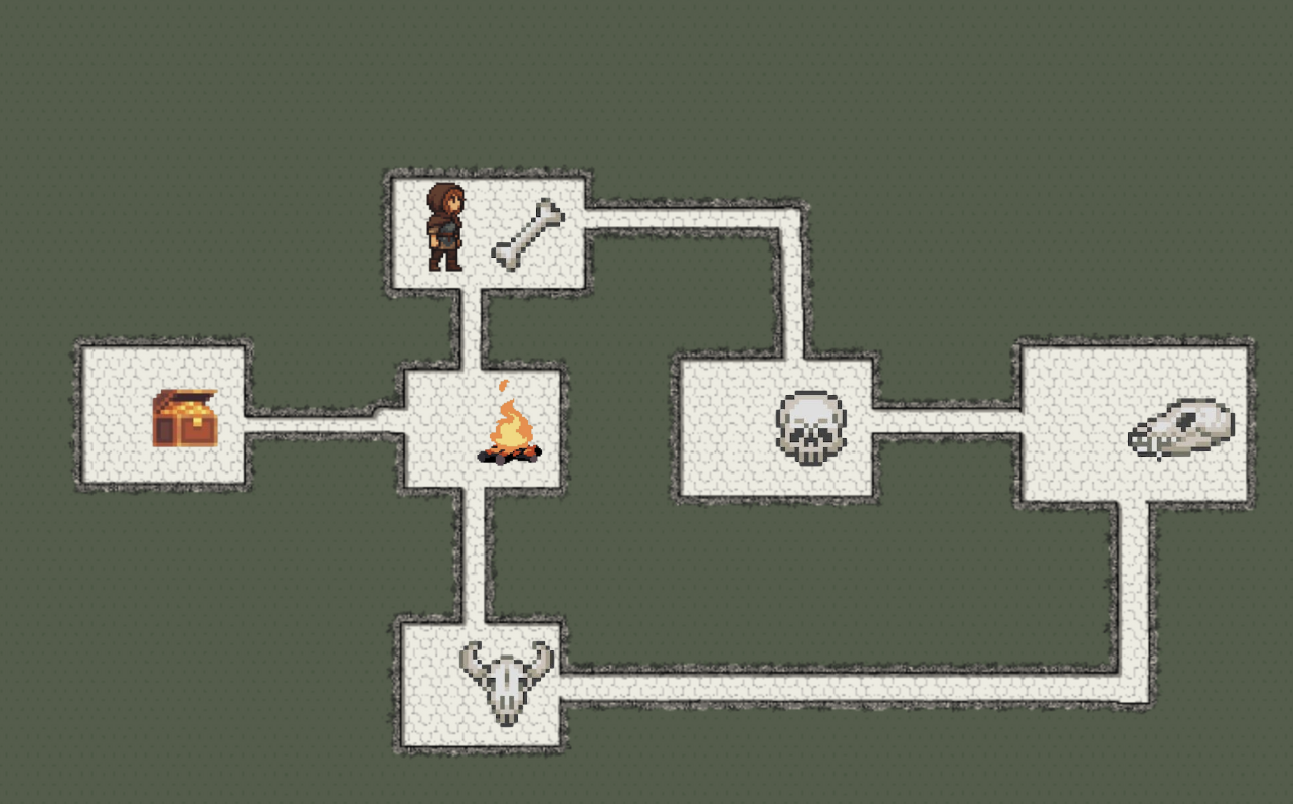
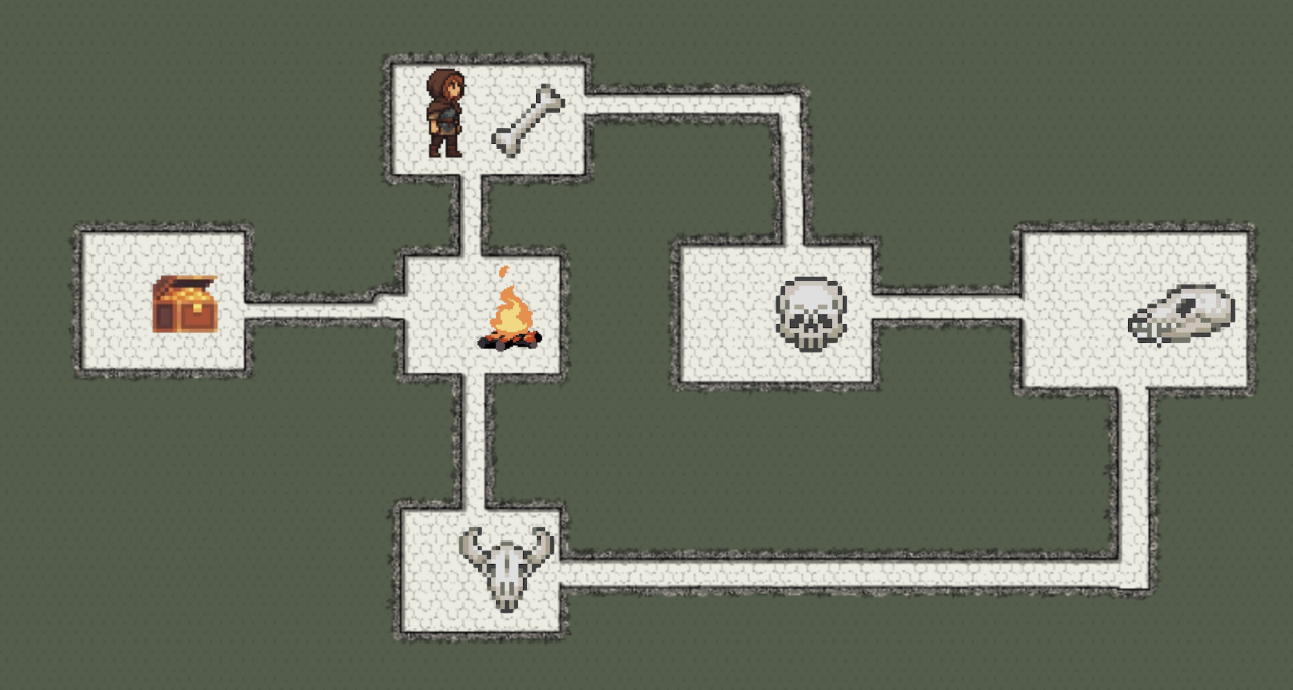
dancing with sizes..

Changed region(s): [[0.0309, 0.0609, 0.9899, 0.9435]]

diff --git a/src/Dungeon.java b/src/Dungeon.java
@@ -70,8 +70,8 @@ public class Dungeon {
         int secondThirdVertical = 2 * backH / 3 + border - doorHeight / 2;
         
         // первая комната, дверь справа только
-        rooms[0] = new RoomData(PathFinder.findFile("misc/Rooms/Room3_0.png"),
-            PathFinder.findFile("misc/MiniMap/Map1.png"), 200, 200);
+        rooms[0] = new RoomData(PathFinder.findFile("misc/Rooms/testRoom.png"),
+            PathFinder.findFile("misc/MiniMap/Map1W.png"), 200, 200);
         rooms[0].addDoor(new Door(centerHorizontal, borderUp, doorWidth,
              doorHeight, 1)); // первый уровень
         rooms[0].addDoor(new Door(centerHorizontal, borderDown, doorWidth, 
@@ -83,7 +83,7 @@ public class Dungeon {
 
         // вторая комната
         rooms[1] = new RoomData(PathFinder.findFile("misc/Rooms/Room3_1.png"),
-            PathFinder.findFile("misc/MiniMap/Map2.png"), 200, 200);
+            PathFinder.findFile("misc/MiniMap/Map2W.png"), 200, 200);
         rooms[1].addDoor(new Door(centerHorizontal, borderDown, doorWidth, doorHeight, 0)); // дом
         rooms[1].addDoor(new Door(borderRight, centerVertical, doorWidth, doorHeight, 2)); // второй уровень
         rooms[1].addKey();
@@ -92,7 +92,7 @@ public class Dungeon {
         
         // третья комната
         rooms[2] = new RoomData(PathFinder.findFile("misc/Rooms/Room3_2.png"),
-            PathFinder.findFile("misc/MiniMap/Map3.png"), 200, 200);
+            PathFinder.findFile("misc/MiniMap/Map3W.png"), 200, 200);
         rooms[2].addDoor(new Door(centerHorizontal, borderUp, doorWidth, doorHeight, 1)); // первый уровень
         rooms[2].addDoor(new Door(borderRight, centerVertical, doorWidth, doorHeight, 3)); // третий уровень
         rooms[2].addKey();
@@ -101,7 +101,7 @@ public class Dungeon {
 
         // четвертая комната
         rooms[3] = new RoomData(PathFinder.findFile("misc/Rooms/Room3_3.png"),
-            PathFinder.findFile("misc/MiniMap/Map4.png"), 200, 200);
+            PathFinder.findFile("misc/MiniMap/Map4W.png"), 200, 200);
         rooms[3].addDoor(new Door(borderLeft, centerVertical, doorWidth, doorHeight, 2)); // второй уровень
         rooms[3].addDoor(new Door(centerHorizontal, borderDown, doorWidth, doorHeight, 4)); // босс
         rooms[3].addKey();
@@ -110,7 +110,7 @@ public class Dungeon {
 
         // пятая комната
         rooms[4] = new RoomData(PathFinder.findFile("misc/Rooms/Room3_4.png"),
-            PathFinder.findFile("misc/MiniMap/Map5.png"), 200, 200);
+            PathFinder.findFile("misc/MiniMap/Map5W.png"), 200, 200);
         rooms[4].addDoor(new Door(borderRight, centerVertical, doorWidth, doorHeight, 3)); // третий уровень
         rooms[4].addDoor(new Door(centerHorizontal, borderUp, doorWidth, doorHeight, 0)); // дом
         rooms[4].addKey();
@@ -118,7 +118,7 @@ public class Dungeon {
         
         // шестая комната
         rooms[5] = new RoomData(PathFinder.findFile("misc/Rooms/Room3_5.png"),
-            PathFinder.findFile("misc/MiniMap/Map6.png"), 200, 200);
+            PathFinder.findFile("misc/MiniMap/Map6W.png"), 200, 200);
         rooms[5].addDoor(new Door(borderRight,centerVertical, doorWidth, doorHeight, 0)); // дом
         rooms[5].addChest(centerHorizontal, centerVertical,3 ,1);
     }

diff --git a/src/MyPanel.java b/src/MyPanel.java
@@ -52,7 +52,7 @@ public class MyPanel extends JPanel implements KeyEventDispatcher {
         Dimension screenSize = Toolkit.getDefaultToolkit().getScreenSize();
         
         int border = 100;
-        int backW = (int)screenSize.getWidth() - border * 2;
+        int backW = (int)screenSize.getWidth() - border * 2 - 50;
         int backH = (int)screenSize.getHeight() - border - 200;
         
         // все скейлы и тд и тп делаются только 1 раз когда хотим загрузить комнату
@@ -66,7 +66,7 @@ public class MyPanel extends JPanel implements KeyEventDispatcher {
         
         // загрузка и масштабирование мини карты
         int miniMapSize = 200;
-        int miniMapW = miniMapSize + (int)((double)miniMapSize * 0.3); 
+        int miniMapW = miniMapSize + (int)((double)miniMapSize * 0.8); 
         int miniMapH = miniMapSize;  
 
         BufferedImage miniMap = ImageIO.read(new File(room.getminiMapPath()));      // делаем только 1 раз              
@@ -85,6 +85,7 @@ public class MyPanel extends JPanel implements KeyEventDispatcher {
         
         Dimension screenSize = Toolkit.getDefaultToolkit().getScreenSize();
         int border = 100;
+        int backW = (int)screenSize.getWidth() - border * 2 - 50;
         
         // проблема главная была в том что здесь использовался getScaledInstance(каждый кадр работа с размером изображения), а также чтение файла ImageIcon (многоразовое обращение к файловой системе)
 
@@ -94,16 +95,17 @@ public class MyPanel extends JPanel implements KeyEventDispatcher {
         }
         
         if (scaledRoomImage != null) {
-            g.drawImage(scaledRoomImage, border - 10, border - 10, null);
+            int roomX = (screenSize.width - backW) / 2;
+            g.drawImage(scaledRoomImage, roomX, border - 10, null);
         }
         
         if (scaledMiniMap != null) {
             int miniMapSize = 200;
-            int minimapW = miniMapSize + (int)((double)miniMapSize * 0.3);  
+            int minimapW = miniMapSize + (int)((double)miniMapSize * 0.8);  
             int minimapH = miniMapSize;                                     
             
-            int miniMapX = screenSize.width - minimapW;
-            int miniMapY = screenSize.height - minimapH - 10;
+            int miniMapX = screenSize.width - minimapW - 20;
+            int miniMapY = screenSize.height - minimapH - 20;
 
             g.drawImage(scaledMiniMap, miniMapX, miniMapY, null);
         }

diff --git a/src/Alex.java b/src/Alex.java
@@ -76,17 +76,16 @@ public class Alex {
         Dimension screenSize = Toolkit.getDefaultToolkit().getScreenSize();
         
         int border = 100;
-        int miniMapSize = 250;
-        int minimapH = miniMapSize;
+        int backW = (int)screenSize.getWidth() - border * 2 - 50; // подогнала под myPanel
+        int backH = (int)screenSize.getHeight() - border - 200;  
 
-        int backW = (int)screenSize.getWidth() - border * 2;
-        int backH = (int)screenSize.getHeight() - border - minimapH;
-
-        //border - 10, border - 10, backW,backH 
-        int leftBorder = border - 18;
-        int rightBorder = leftBorder + backW - 75;
-        int upBorder = border - 10;
-        int downBorder = border - 52  + backH;
+        // центрирую как в MyPanel
+        int roomX = (screenSize.width - backW) / 2; 
+        
+        int leftBorder = roomX - 10;                      
+        int rightBorder = roomX + backW - 75;       
+        int upBorder = border - 10;               
+        int downBorder = border - 10 + backH - 95;   
 
         if (newX >= leftBorder && newX <= rightBorder) {
             x = newX;
